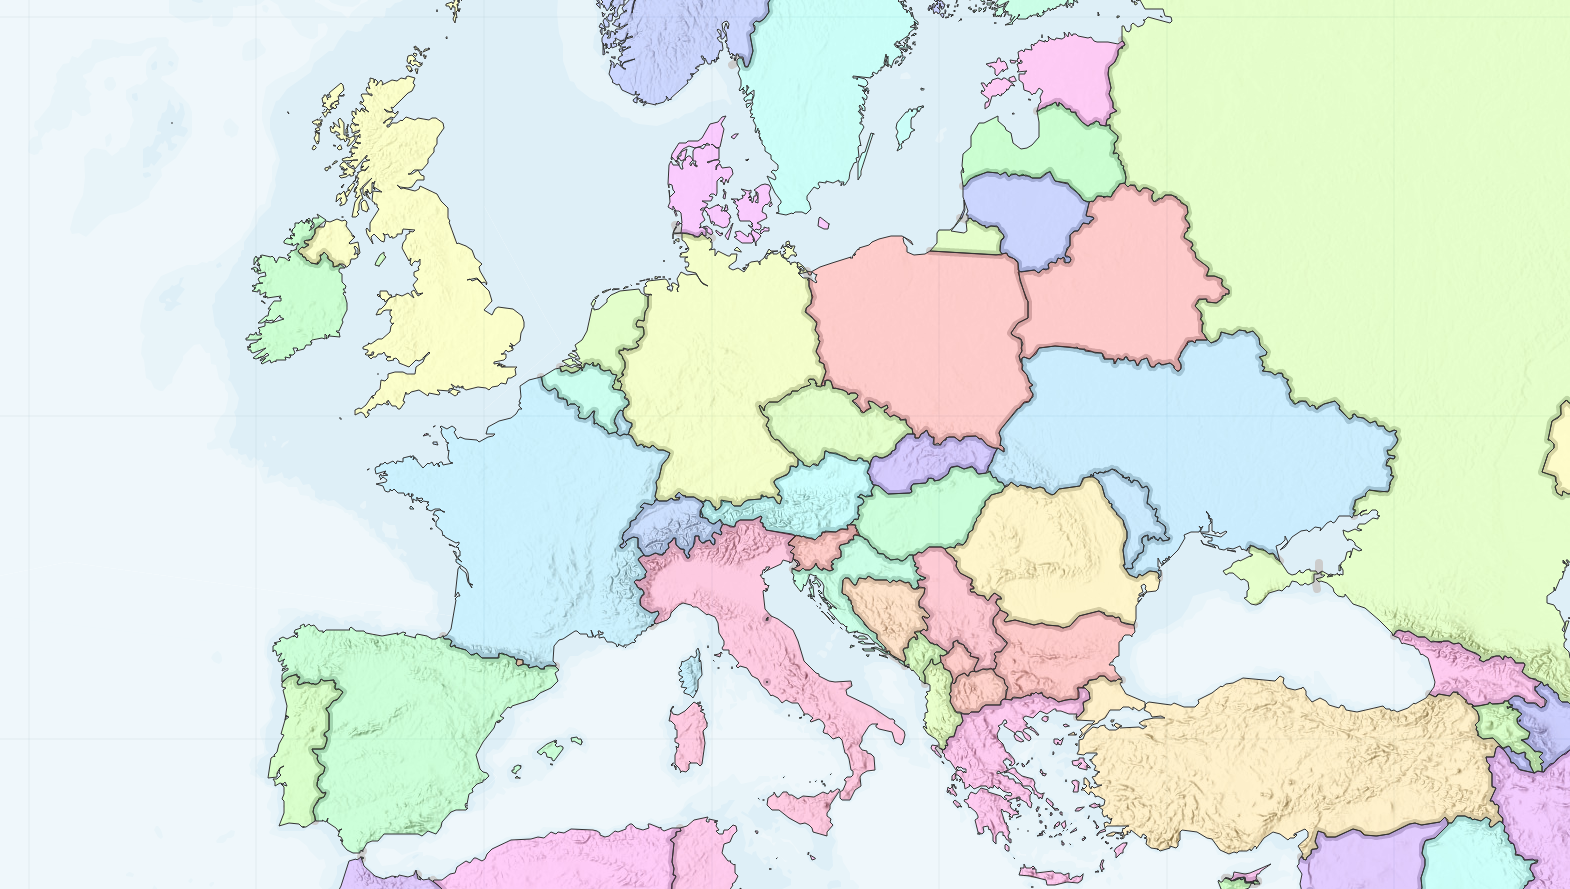
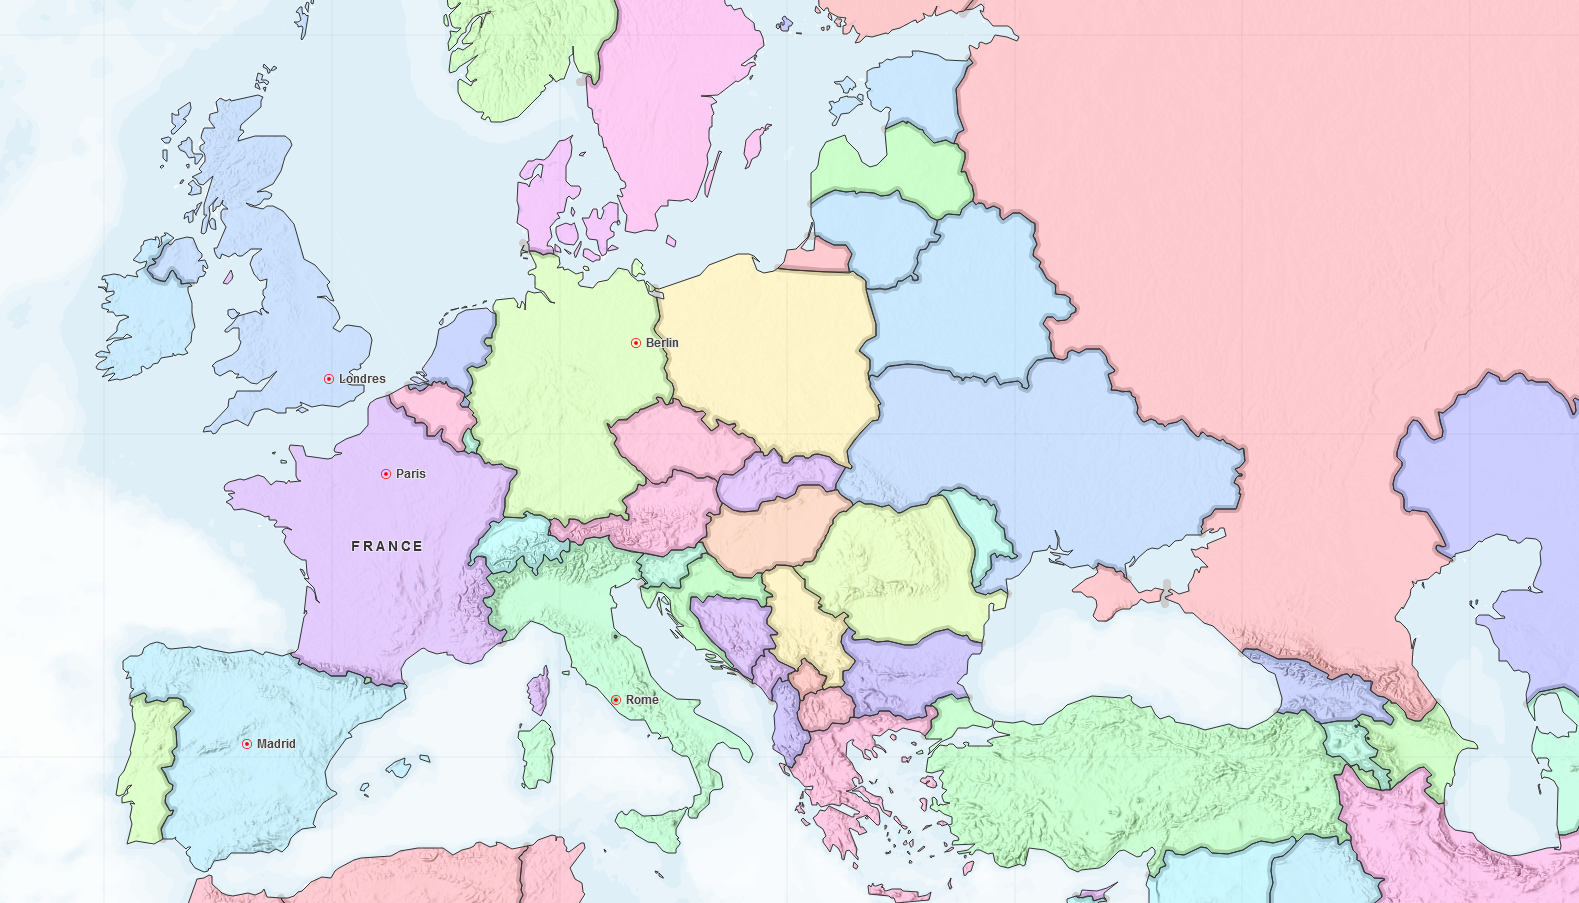
update

diff --git a/index.php b/index.php
@@ -6,6 +6,7 @@
 	# convertion shape / geojson : https://mapshaper.org
 	# labels : https://github.com/mledoze/countries
 	# test tiles : https://mc.bbbike.org/mc/?num=2&mt0=mapnik&mt1=hillshading
+	# country list + translations : https://github.com/stefangabos/world_countries/tree/master/data/countries/_combined
 
 	# Todo
 	- geojson : pays labels / pays capitales / océans / mers
@@ -58,6 +59,7 @@
 		map_bounds = L.latLngBounds(map_sw,map_ne),
 		//tiles_base = L.tileLayer('https://services.arcgisonline.com/arcgis/rest/services/Elevation/World_Hillshade/MapServer/tile/{z}/{y}/{x}', {
 		tiles_base = L.tileLayer('http://localhost/dev/map-vector/arcgis-shade/{z}/{x}-{y}.jpg', {
+		//tiles_base = L.tileLayer('https://worldtiles2.waze.com/tiles/{z}/{x}/{y}.png', {
 			minZoom: map_zmin,
 			maxZoom: map_zmax,
 			tileSize: 256,
@@ -77,7 +79,7 @@
 			html: '<svg xmlns="http://www.w3.org/2000/svg" width="10" height="10" fill="red" class="bi bi-record-circle" viewBox="0 0 16 16"><path d="M8 15A7 7 0 1 1 8 1a7 7 0 0 1 0 14zm0 1A8 8 0 1 0 8 0a8 8 0 0 0 0 16z"/><path d="M11 8a3 3 0 1 1-6 0 3 3 0 0 1 6 0z"/></svg>',
 			className: 'icon-city',
 			iconSize: [10, 10],
-			iconAnchor:   [0, 0],
+			iconAnchor:   [3, 8],
 			popupAnchor:  [0, 0]
 		}),
 		zoom_now = map.getZoom(),
@@ -186,24 +188,27 @@
 
 
 	function map_load() {
-		$.getJSON('geojson/ne_10m_bathymetry_L_0.json',function(data){ geojson_b_0 = L.geoJson(data, {style: geo_water_0, pane: 'b_0', interactive: false}).addTo(map); });
-		$.getJSON('geojson/ne_10m_bathymetry_K_200.json',function(data){ geojson_b_200 = L.geoJson(data, {style: geo_water, pane: 'b_1', interactive: false}).addTo(map); });
-		$.getJSON('geojson/ne_10m_bathymetry_J_1000.json',function(data){ geojson_b_1000 = L.geoJson(data, {style: geo_water, pane: 'b_2', interactive: false}).addTo(map); });
-		/*
-		$.getJSON('geojson/ne_10m_bathymetry_I_2000.json',function(data){ geojson_b_2000 = L.geoJson(data, {style: geo_water}).addTo(map); });
-		$.getJSON('geojson/ne_10m_bathymetry_H_3000.json',function(data){ geojson_b_3000 = L.geoJson(data, {style: geo_water}).addTo(map); });
-		$.getJSON('geojson/ne_10m_bathymetry_G_4000.json',function(data){ geojson_b_4000 = L.geoJson(data, {style: geo_water}).addTo(map); });
-		$.getJSON('geojson/ne_10m_bathymetry_F_5000.json',function(data){ geojson_b_5000 = L.geoJson(data, {style: geo_water}).addTo(map); });
-		$.getJSON('geojson/ne_10m_bathymetry_E_6000.json',function(data){ geojson_b_6000 = L.geoJson(data, {style: geo_water}).addTo(map); });
-		$.getJSON('geojson/ne_10m_bathymetry_D_7000.json',function(data){ geojson_b_7000 = L.geoJson(data, {style: geo_water}).addTo(map); });
-		$.getJSON('geojson/ne_10m_bathymetry_C_8000.json',function(data){ geojson_b_8000 = L.geoJson(data, {style: geo_water}).addTo(map); });
-		$.getJSON('geojson/ne_10m_bathymetry_B_9000.json',function(data){ geojson_b_9000 = L.geoJson(data, {style: geo_water}).addTo(map); });
-		$.getJSON('geojson/ne_10m_bathymetry_A_10000.json',function(data){ geojson_b_10000 = L.geoJson(data, {style: geo_water}).addTo(map); });
-		*/
+		$.getJSON('geojson/ne_10m_bathymetry_L_0_sm.json',function(data){ geojson_b_0 = L.geoJson(data, {style: geo_water_0, pane: 'b_0', interactive: false}).addTo(map); });
+		$.getJSON('geojson/ne_10m_bathymetry_K_200_sm.json',function(data){ geojson_b_200 = L.geoJson(data, {style: geo_water, pane: 'b_1', interactive: false}).addTo(map); });
+		$.getJSON('geojson/ne_10m_bathymetry_J_1000_sm.json',function(data){ geojson_b_1000 = L.geoJson(data, {style: geo_water, pane: 'b_2', interactive: false}).addTo(map); });
+		/**/
+		$.getJSON('geojson/ne_10m_bathymetry_I_2000_sm.json',function(data){ geojson_b_2000 = L.geoJson(data, {style: geo_water, pane: 'b_2', interactive: false}).addTo(map); });
+		$.getJSON('geojson/ne_10m_bathymetry_H_3000_sm.json',function(data){ geojson_b_3000 = L.geoJson(data, {style: geo_water, pane: 'b_2', interactive: false}).addTo(map); });
+		$.getJSON('geojson/ne_10m_bathymetry_G_4000_sm.json',function(data){ geojson_b_4000 = L.geoJson(data, {style: geo_water, pane: 'b_2', interactive: false}).addTo(map); });
+		$.getJSON('geojson/ne_10m_bathymetry_F_5000_sm.json',function(data){ geojson_b_5000 = L.geoJson(data, {style: geo_water, pane: 'b_2', interactive: false}).addTo(map); });
+		$.getJSON('geojson/ne_10m_bathymetry_E_6000_sm.json',function(data){ geojson_b_6000 = L.geoJson(data, {style: geo_water, pane: 'b_2', interactive: false}).addTo(map); });
+		$.getJSON('geojson/ne_10m_bathymetry_D_7000_sm.json',function(data){ geojson_b_7000 = L.geoJson(data, {style: geo_water, pane: 'b_2', interactive: false}).addTo(map); });
+		$.getJSON('geojson/ne_10m_bathymetry_C_8000_sm.json',function(data){ geojson_b_8000 = L.geoJson(data, {style: geo_water, pane: 'b_2', interactive: false}).addTo(map); });
+		$.getJSON('geojson/ne_10m_bathymetry_B_9000_sm.json',function(data){ geojson_b_9000 = L.geoJson(data, {style: geo_water, pane: 'b_2', interactive: false}).addTo(map); });
+		$.getJSON('geojson/ne_10m_bathymetry_A_10000_sm.json',function(data){ geojson_b_10000 = L.geoJson(data, {style: geo_water, pane: 'b_2', interactive: false}).addTo(map); });
+		/**/
 		$.getJSON('geojson/ne_10m_graticules_10.json',function(data){ geojson_frontiere = L.geoJson(data, {style: geo_graticules, pane: 'g_0', interactive: false}).addTo(map); });
-		//$.getJSON('geojson/ne_10m_time_zones.json',function(data){ geojson_frontiere = L.geoJson(data, {style: geo_graticules, pane: 'g_0'}).addTo(map); });
-		$.getJSON('geojson/ne_10m_admin_0_boundary_lines_land.json',function(data){ geojson_frontiere = L.geoJson(data, {style: geo_frontieres, pane: 'c_0', interactive: false}).addTo(map); });
-		$.getJSON('geojson/ne_10m_admin_0_countries.json',function(data){ geojson_pays = L.geoJson(data, {style: geo_countries, pane: 'c_1'}).addTo(map); });
+		// 10m
+		//$.getJSON('geojson/ne_10m_admin_0_boundary_lines_land.json',function(data){ geojson_frontiere = L.geoJson(data, {style: geo_frontieres, pane: 'c_0', interactive: false}).addTo(map); });
+		//$.getJSON('geojson/ne_10m_admin_0_countries.json',function(data){ geojson_pays = L.geoJson(data, {style: geo_countries, pane: 'c_1'}).addTo(map); });
+		// 50m
+		$.getJSON('geojson/ne_50m_admin_0_boundary_lines_land.json',function(data){ geojson_frontiere = L.geoJson(data, {style: geo_frontieres, pane: 'c_0', interactive: false}).addTo(map); });
+		$.getJSON('geojson/ne_50m_admin_0_countries.json',function(data){ geojson_pays = L.geoJson(data, {style: geo_countries, pane: 'c_1'}).addTo(map); });
 		L.control.scale().addTo(map);
 
 		// ville

diff --git a/README.md b/README.md
@@ -11,6 +11,10 @@ The objective is to try to reproduce a map that I like very much consultable on 
 
 [![ArcGIS map][arcgis-screenshot]](https://www.arcgis.com/apps/mapviewer/)
 
+The final work should be as close as possible to the ArcGIS model and provide all necessary open source tools. A database (json) with the names of the countries and their respective capitals and all the data to display this information on the map will be available.
+
+A fully functional example will also be available.
+
 ## Result
 
 Here is the rendering I get for the moment !
